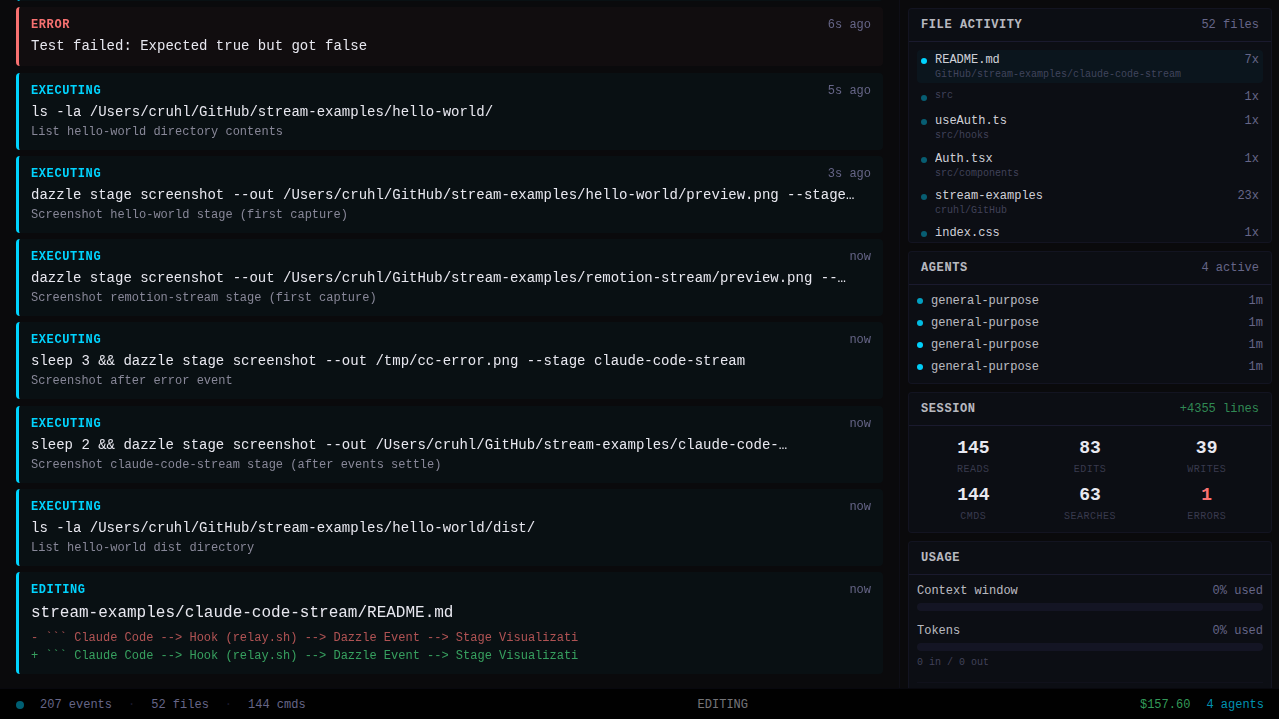
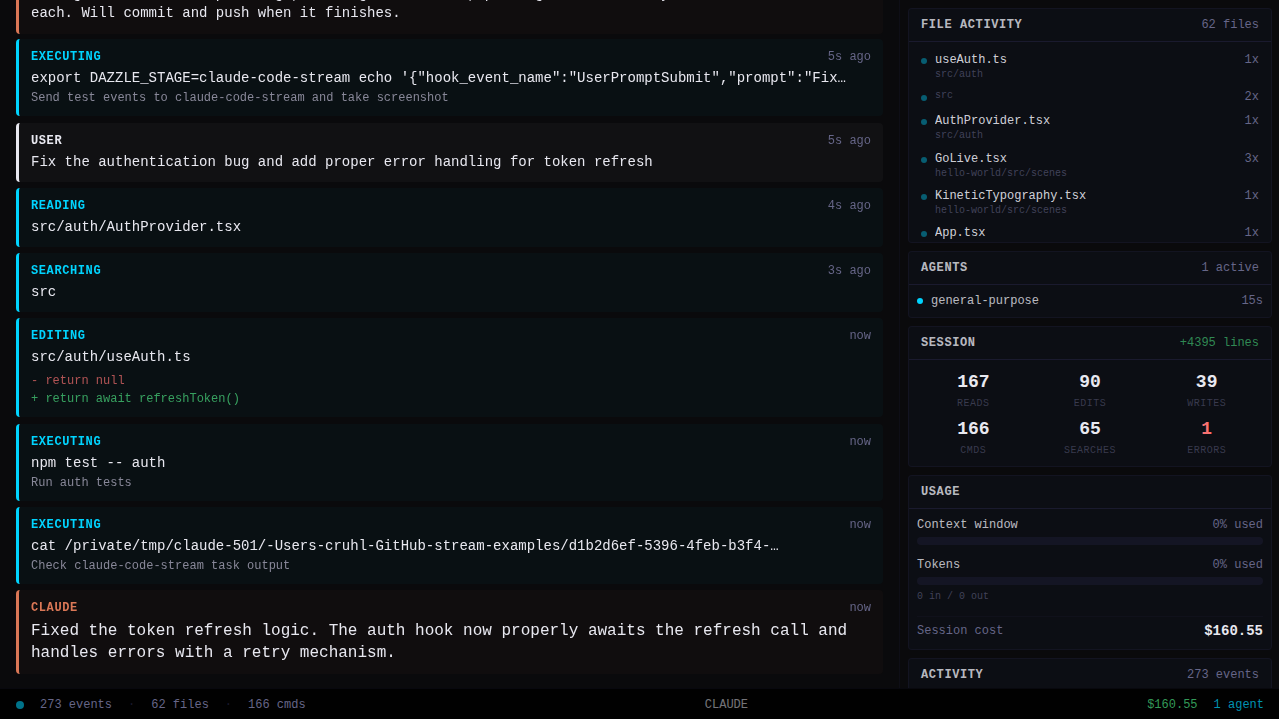
Clean up root README, better preview screenshots
- Root README simplified: no skill install stuff, just examples + quick start
- Remotion preview: "27,384" counting number scene
- Hello-world preview: "Go Live" scene with green glow and waveform
- Claude-code-stream preview: populated feed with USER/CLAUDE/tools/agents

diff --git a/README.md b/README.md
@@ -1,98 +1,53 @@
 # Dazzle Stream Examples
 
-Live streaming powered by AI agents and code. Build with React, TypeScript, and Tailwind -- sync it to the cloud, broadcast it to the world.
+Runnable examples for [Dazzle](https://dazzle.fm) — cloud stages that render and broadcast your content as a live stream.
 
-![Claude Code Stream](claude-code-stream/preview.png)
+## Examples
 
-[Dazzle](https://dazzle.fm) gives you a cloud browser at 1280x720. You build a web app, Dazzle renders it, and broadcasts the output as a live stream. React, CSS animations, Canvas 2D, SVG, Web Audio -- all of it works. These examples show you what's possible, from cinematic motion graphics to real-time AI coding visualizations.
-
-## The Killer Feature: Stream Your Claude Code Session
-
-Watch an AI coding agent work in real time. Every file read, every edit, every grep, every bash command -- rendered live on stream as it happens.
-
-```bash
-curl -sSL https://dazzle.fm/install.sh | sh
-```
-
-The [`claude-code-stream`](./claude-code-stream) example hooks into Claude Code's tool system and pushes every action to a Dazzle stage. Your audience sees exactly what the AI sees, as it sees it. Installable as a Claude Code skill -- one command and you're live.
+| Example | Description |
+|---------|-------------|
+| [`hello-world`](./hello-world) | 5 cinematic scenes — particles, terminal, pipeline, kinetic typography, waveform. React/TypeScript/Tailwind with Canvas 2D backgrounds. |
+| [`remotion-stream`](./remotion-stream) | Motion graphics with Remotion — signal lock, counting numbers, waveforms, typewriter, orbital particles. Spring physics and hard-cut transitions. |
+| [`claude-code-stream`](./claude-code-stream) | Live visualization of a Claude Code session. Every tool call, file edit, search, and agent spawn on stream in real time. Installable as a skill. |
 
 ## Quick Start
 
 ```bash
-# Install the Dazzle CLI
+# Install Dazzle
 curl -sSL https://dazzle.fm/install.sh | sh
-
-# Authenticate
 dazzle login
 
 # Create a stage
 dazzle stage create my-stage
 
-# Pick an example, build it, sync it, go live
+# Pick an example, build, sync
 cd hello-world && npm install && npm run build && cd ..
-dazzle stage sync ./hello-world/dist --stage my-stage --watch
-dazzle stage screenshot --stage my-stage --out preview.png
+dazzle stage sync ./hello-world/dist --stage my-stage
 ```
 
-That's it. Broadcasting starts automatically when the stage activates. Your content is rendering in a cloud browser at 1280x720 and streaming to your configured destination (Kick, Twitch, YouTube, or custom RTMP).
+Broadcasting starts automatically when the stage activates.
 
-## Examples
-
-| Example | What It Does |
-|---------|-------------|
-| [`hello-world`](./hello-world) | Broadcast-quality visual showcase -- 5 cinematic scenes cycling through particles, terminal animation, pipeline diagrams, kinetic typography, and waveform. React/TypeScript/Tailwind with Canvas 2D background layers. Proves the full pipeline and looks incredible doing it. |
-| [`remotion-stream`](./remotion-stream) | Cinematic motion graphics built with Remotion -- signal lock, counting numbers, full-bleed waveforms, typewriter titles, and orbital particles. Spring physics, text decode effects, hard-cut transitions. This is what broadcast-quality React looks like. |
-| [`claude-code-stream`](./claude-code-stream) | Live visualization of a Claude Code session. Every tool call, file edit, search, and subagent spawn appears on stream in real time. React/TypeScript/Tailwind with a scrolling event feed and sidebar panels for file activity, agents, session stats, usage, and activity sparkline. Installable as a Claude Code skill -- hook it up and every coding session becomes a live broadcast. |
-
-## How Dazzle Works
+## How It Works
 
 ```
-Your Code  -->  npm run build  -->  dazzle stage sync  -->  Cloud Browser  -->  Broadcast
-(React/TS)      (dist/)              (CLI)                   (1280x720)          (Kick/Twitch/YT)
+Your Code  →  npm run build  →  dazzle stage sync  →  Cloud Browser  →  Live Stream
+(React/TS)     (dist/)            (CLI)                 (1280x720)        (Kick/Twitch/YT)
 ```
 
-You build a web app with whatever tools you like -- React, Vite, Tailwind, plain HTML. Dazzle syncs the built output to a cloud browser, captures the viewport at 30fps, and broadcasts it. Every example in this repo uses `npm run build` to produce a `dist/` directory, then syncs that to a stage.
+Build a web app. Dazzle syncs it to a cloud browser at 1280x720, captures at 30fps, broadcasts the output. React, Canvas 2D, SVG, Web Audio — all work.
 
-## Writing Your Own
+## Key Constraints
 
-Every example is a Vite project that builds to a `dist/` directory. The simplest setup:
+- **1280x720** fixed resolution, 30fps capture, software renderer
+- **CSS animations and Canvas 2D** are the sweet spot — no heavy shaders
+- **Full viewport, no scroll** — 16:9 with 40px safe area
+- Every CLI command uses `--stage` explicitly
 
-```bash
-npm create vite@latest my-stream -- --template react-ts
-cd my-stream && npm install
-npm run build
-dazzle stage sync ./dist --stage my-stage --watch
-```
-
-Key constraints:
-- **1280x720 fixed resolution**, 30fps capture
-- **Software renderer** -- no hardware GPU. CSS animations, Canvas 2D, and SVG are the sweet spot. Avoid fragment shaders or multi-pass WebGL.
-- **Full viewport, no scroll** -- design for 16:9 with a 40px safe area from edges
-- **Text**: 16px+ body, 24px+ headings, high contrast, sans-serif
-- **Assets**: keep images under 2MB, use WebP/AVIF, no video files
-
-For the full content authoring guide: `dazzle guide` or [dazzle.fm/guide.md](https://dazzle.fm/guide.md)
-
-All three examples use `--stage` explicitly in every CLI command. Always specify which stage you're targeting.
-
-## Sending Live Data
-
-Push real-time data to your running page without re-syncing:
-
-```bash
-dazzle stage event emit score '{"points": 42}'
-```
-
-```js
-window.addEventListener('event', (e) => {
-  const { event, data } = e.detail
-  if (event === 'score') el.textContent = data.points
-})
-```
+See `dazzle guide` or [dazzle.fm/guide.md](https://dazzle.fm/guide.md) for the full authoring guide.
 
 ## Links
 
-- [Dazzle](https://dazzle.fm) -- platform
-- [CLI source](https://github.com/dazzle-labs/cli) -- open source
-- [Content guide](https://dazzle.fm/guide.md) -- performance tips, what works at 60fps
-- [LLM reference](https://dazzle.fm/llms.txt) -- full platform spec for AI agents
+- [Dazzle](https://dazzle.fm)
+- [CLI source](https://github.com/dazzle-labs/cli)
+- [Content guide](https://dazzle.fm/guide.md)
+- [LLM reference](https://dazzle.fm/llms.txt)
